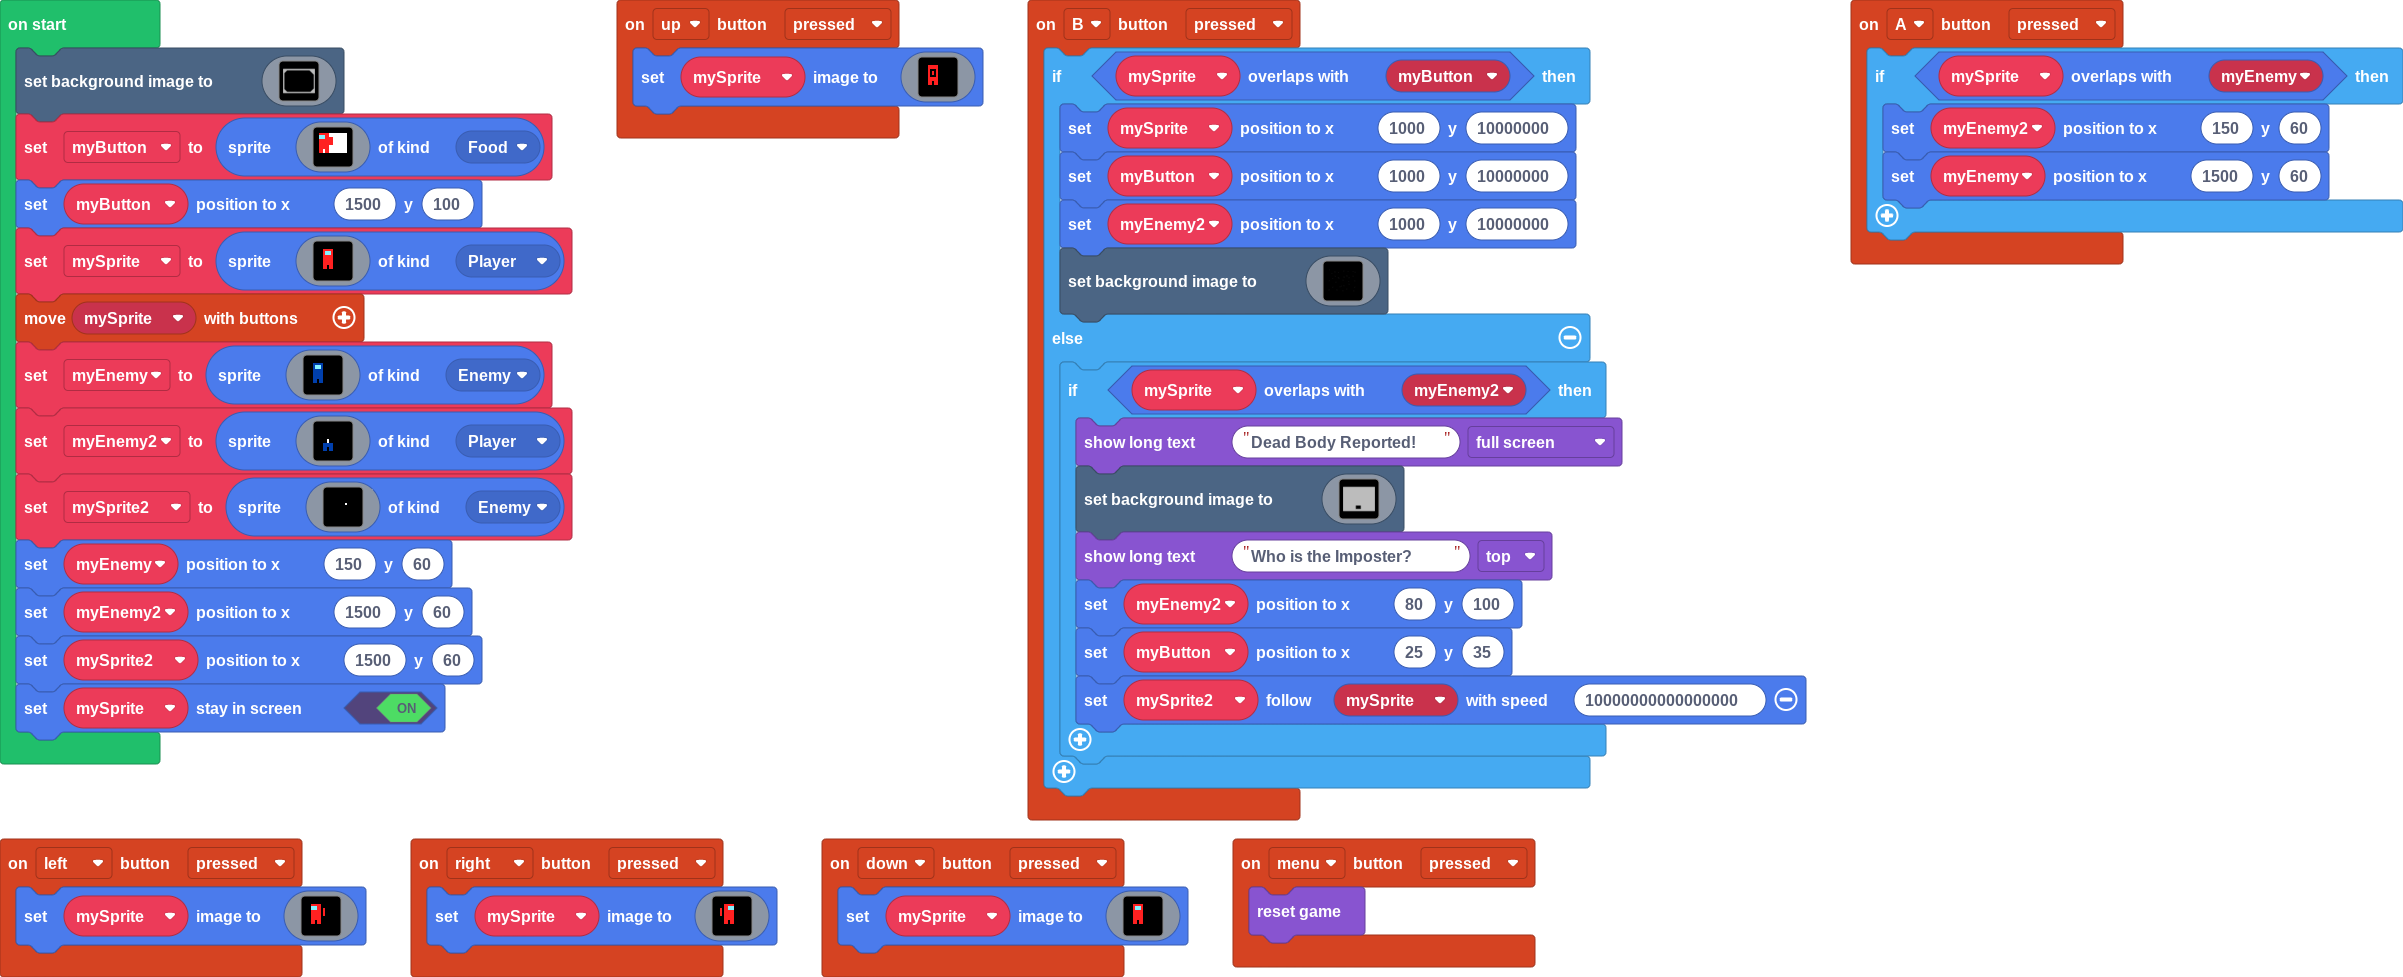
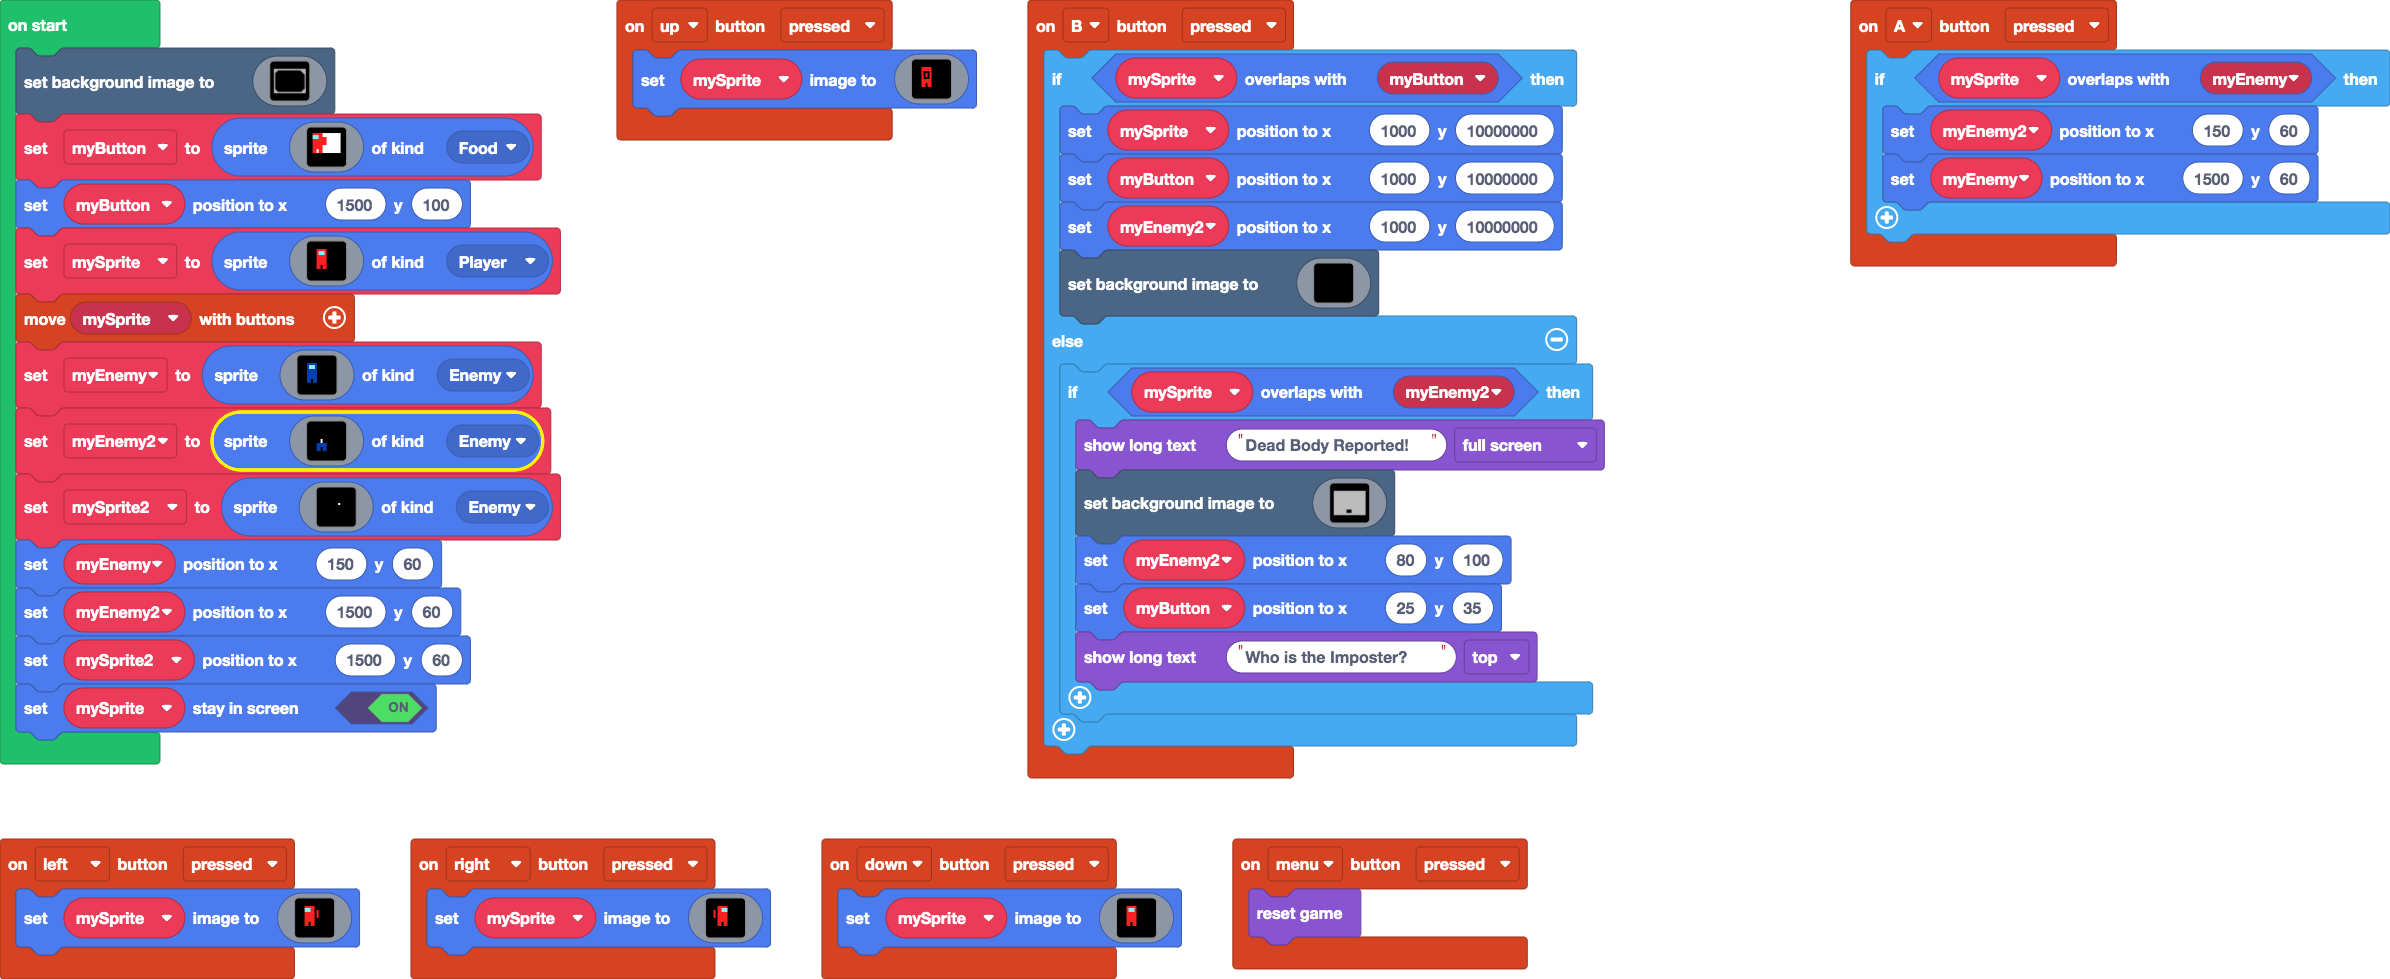
Update main.blocks, main.ts

Changed region(s): [[0.0, 0.0, 0.7741, 0.9826], [0.7431, 0.0, 1.0, 0.2764], [0.0, 0.0, 0.031, 0.0307]]

diff --git a/main.ts b/main.ts
@@ -270,10 +270,9 @@ controller.B.onEvent(ControllerButtonEvent.Pressed, function () {
                 1111111111111111111111111111111111111111111111111111111111111111111111111111111111111111111111111111111111111111111111111111111111111111111111111111111111111111
                 1111111111111111111111111111111111111111111111111111111111111111111111111111111111111111111111111111111111111111111111111111111111111111111111111111111111111111
                 `)
-            game.showLongText("Who is the Imposter?", DialogLayout.Top)
             myEnemy2.setPosition(80, 100)
             myButton.setPosition(25, 35)
-            mySprite2.follow(mySprite, 10000000000000000)
+            game.showLongText("Who is the Imposter?", DialogLayout.Top)
         }
     }
 })
@@ -346,7 +345,6 @@ controller.down.onEvent(ControllerButtonEvent.Pressed, function () {
 controller.menu.onEvent(ControllerButtonEvent.Pressed, function () {
     game.reset()
 })
-let mySprite2: Sprite = null
 let myEnemy2: Sprite = null
 let myEnemy: Sprite = null
 let mySprite: Sprite = null
@@ -546,8 +544,8 @@ myEnemy2 = sprites.create(img`
     . . . . . . . . . . . . . . . . 
     . . . . . . . . . . . . . . . . 
     . . . . . . . . . . . . . . . . 
-    `, SpriteKind.Player)
-mySprite2 = sprites.create(img`
+    `, SpriteKind.Enemy)
+let mySprite2 = sprites.create(img`
     . . . . . . . . . . . . . . . . 
     . . . . . . . . . . . . . . . . 
     . . . . . . . . . . . . . . . . 
